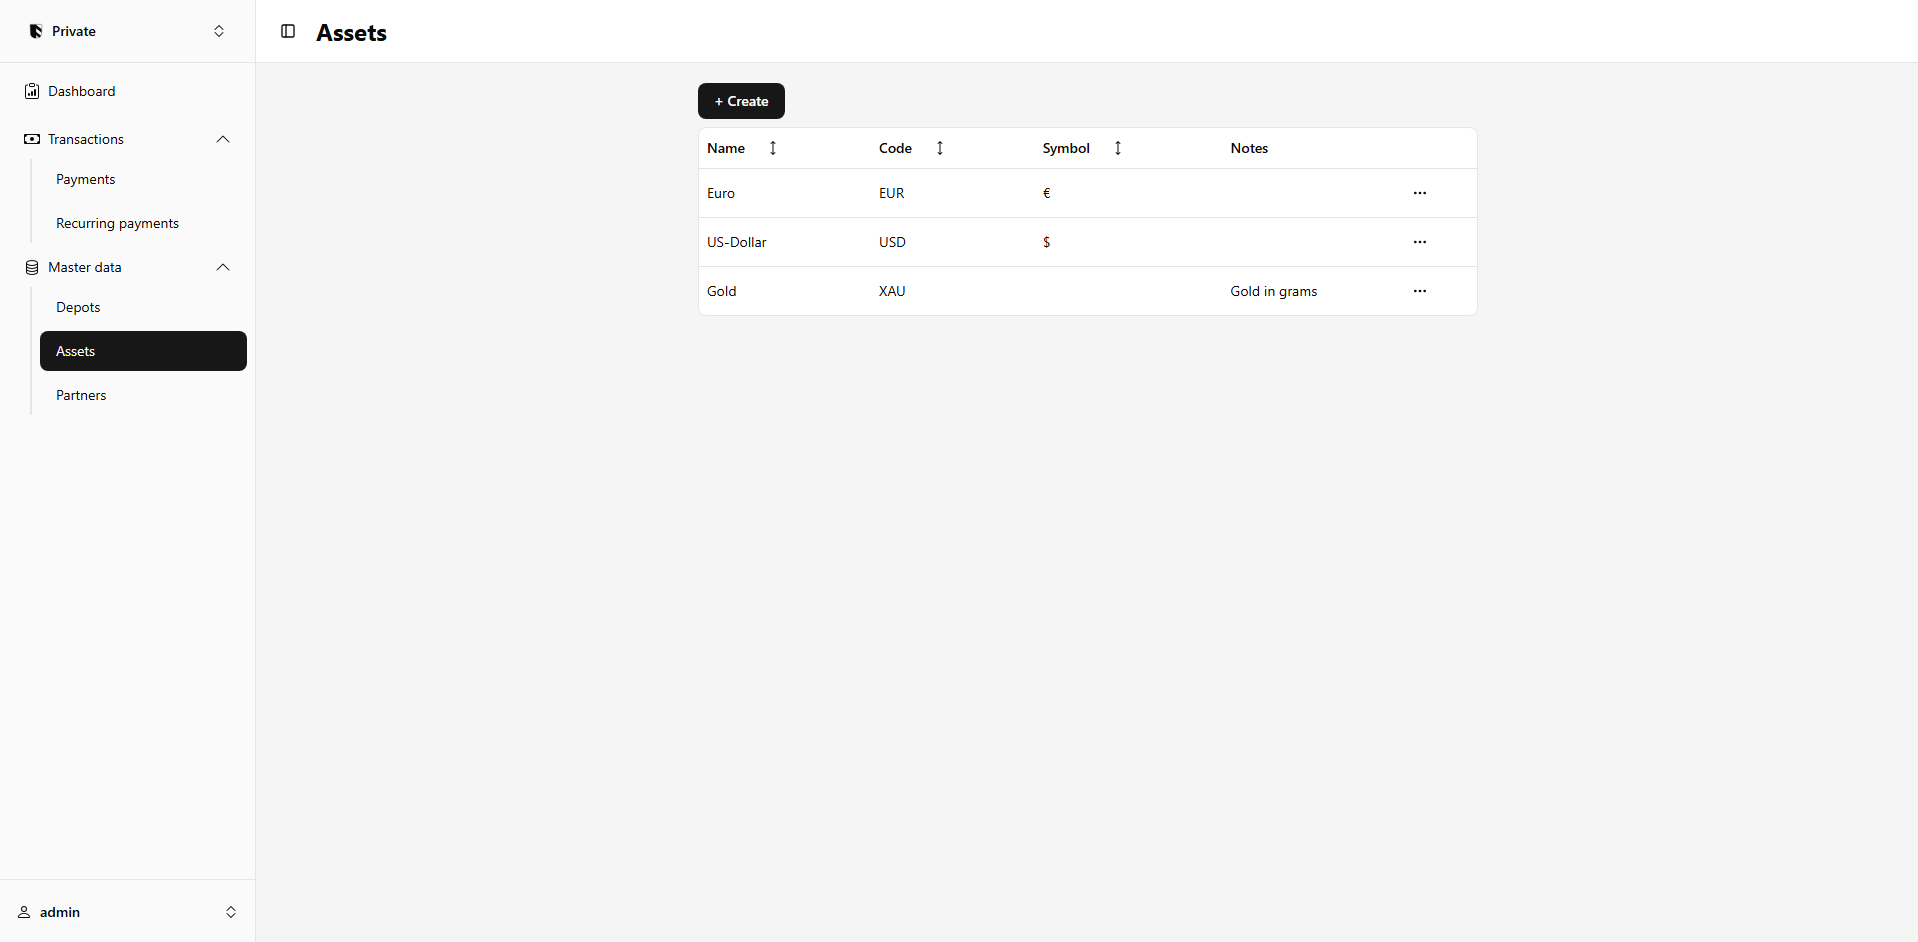
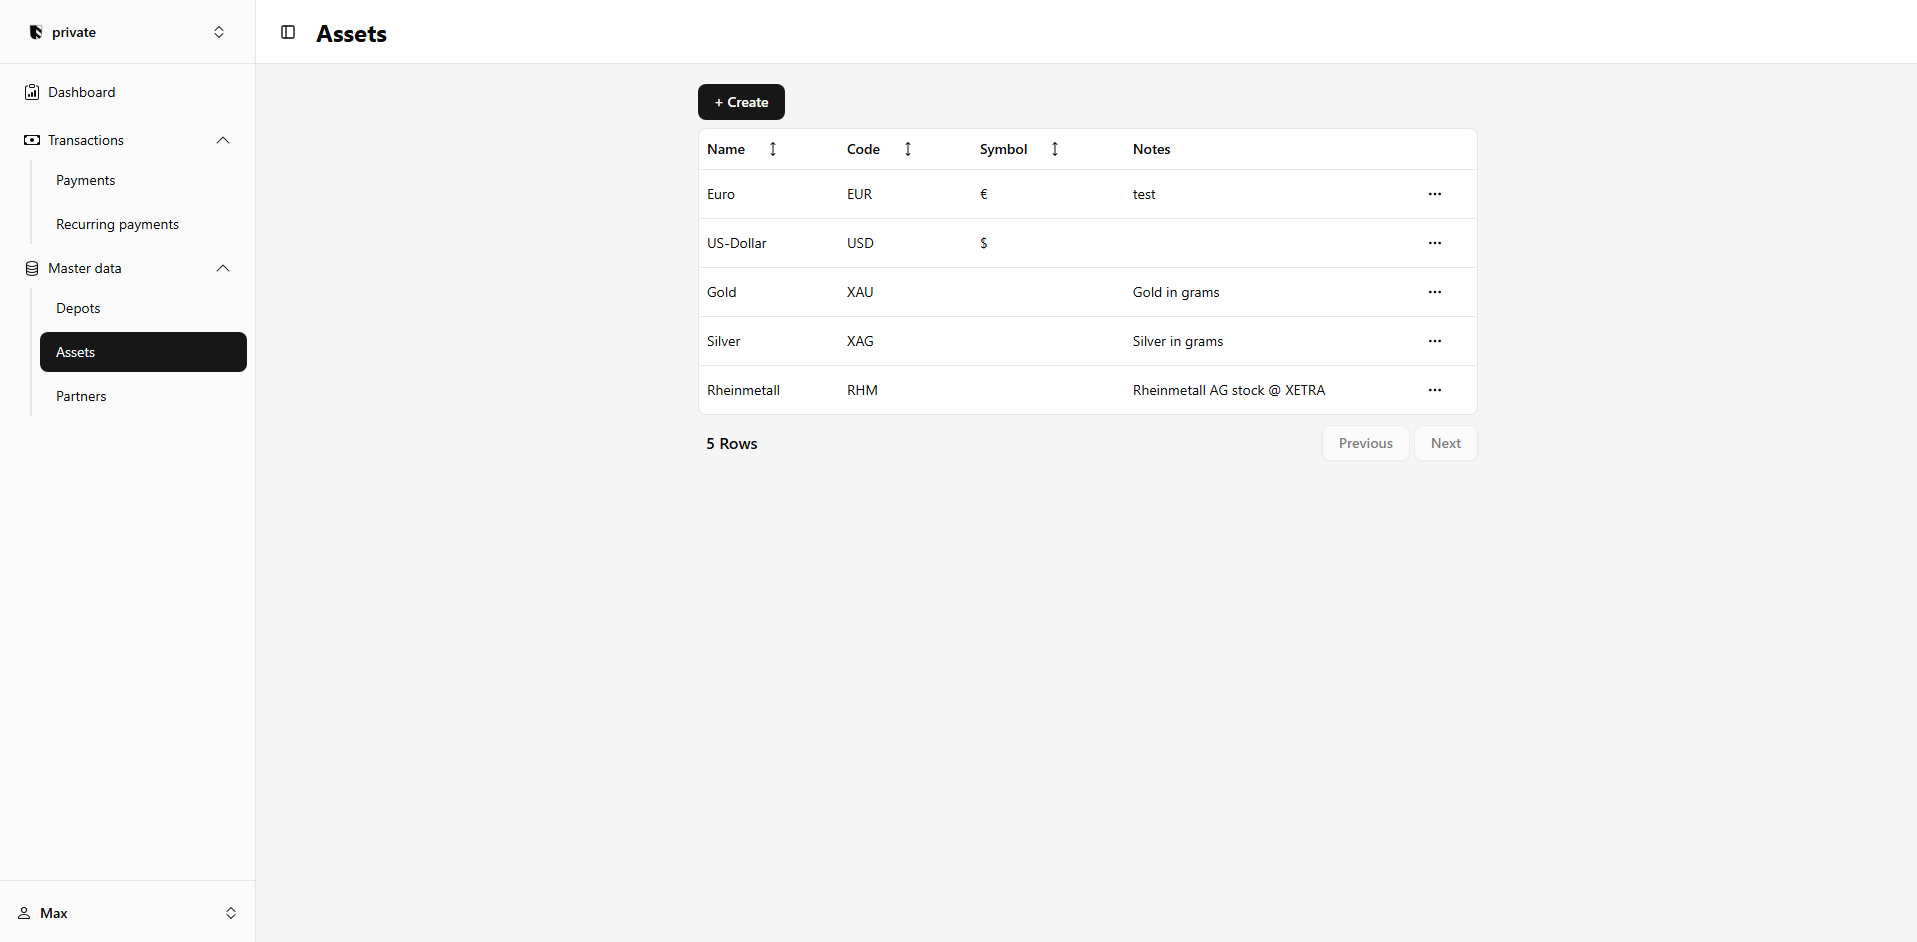
Refactor EntityView #4

diff --git a/src/main/webui/src/components/table/data-table.tsx b/src/main/webui/src/components/table/data-table.tsx
@@ -9,20 +9,27 @@ import {
 import {type Table as TTable} from "@tanstack/table-core"
 import {Table, TableBody, TableCell, TableHead, TableHeader, TableRow} from "./../ui/table.tsx";
 import {type RefObject, useEffect, useState} from "react";
+import type {PagedResponse} from "../../lib/types.ts";
+import {Button} from "../ui/button.tsx";
+import i18next from "i18next";
 
 interface DataTableProps<TData, TValue> {
     columns: ColumnDef<TData, TValue>[]
-    data: TData[],
+    page: PagedResponse<TData>,
+    changePage: (page: number) => void,
     ref?: RefObject<TTable<TData> | null>
 }
 
 export function DataTable<TData, TValue>({
                                              columns,
-                                             data,
+                                             page,
+                                             changePage,
                                              ref
                                          }: DataTableProps<TData, TValue>) {
     const [sorting, setSorting] = useState<SortingState>([])
     const [rowSelection, setRowSelection] = useState({})
+
+    const data = page.data
 
     const table = useReactTable({
         data,
@@ -44,50 +51,70 @@ export function DataTable<TData, TValue>({
     }, [])
 
     return (
-        <div className="overflow-hidden rounded-md border bg-white">
-            <Table>
-                <TableHeader>
-                    {table.getHeaderGroups().map((headerGroup) => (
-                        <TableRow key={headerGroup.id}>
-                            {headerGroup.headers.map((header) => {
-                                return (
-                                    <TableHead key={header.id}>
-                                        {header.isPlaceholder
-                                            ? null
-                                            : flexRender(
-                                                header.column.columnDef.header,
-                                                header.getContext()
-                                            )}
-                                    </TableHead>
-                                )
-                            })}
-                        </TableRow>
-                    ))}
-                </TableHeader>
-                <TableBody>
-                    {table.getRowModel().rows?.length ? (
-                        table.getRowModel().rows.map((row) => (
-                            <TableRow
-                                key={row.id}
-                                onClick={() => row.toggleSelected()}
-                                data-state={row.getIsSelected() && "selected"}
-                            >
-                                {row.getVisibleCells().map((cell) => (
-                                    <TableCell key={cell.id}>
-                                        {flexRender(cell.column.columnDef.cell, cell.getContext())}
-                                    </TableCell>
-                                ))}
+        <div className={"flex flex-col gap-2"}>
+            <div className="overflow-hidden rounded-md border bg-white">
+                <Table>
+                    <TableHeader>
+                        {table.getHeaderGroups().map((headerGroup) => (
+                            <TableRow key={headerGroup.id}>
+                                {headerGroup.headers.map((header) => {
+                                    return (
+                                        <TableHead key={header.id}>
+                                            {header.isPlaceholder
+                                                ? null
+                                                : flexRender(
+                                                    header.column.columnDef.header,
+                                                    header.getContext()
+                                                )}
+                                        </TableHead>
+                                    )
+                                })}
                             </TableRow>
-                        ))
-                    ) : (
-                        <TableRow>
-                            <TableCell colSpan={columns.length} className="h-24 text-center">
-                                No results.
-                            </TableCell>
-                        </TableRow>
-                    )}
-                </TableBody>
-            </Table>
+                        ))}
+                    </TableHeader>
+                    <TableBody>
+                        {table.getRowModel().rows?.length ? (
+                            table.getRowModel().rows.map((row) => (
+                                <TableRow
+                                    key={row.id}
+                                    onClick={() => row.toggleSelected()}
+                                    data-state={row.getIsSelected() && "selected"}
+                                >
+                                    {row.getVisibleCells().map((cell) => (
+                                        <TableCell key={cell.id}>
+                                            {flexRender(cell.column.columnDef.cell, cell.getContext())}
+                                        </TableCell>
+                                    ))}
+                                </TableRow>
+                            ))
+                        ) : (
+                            <TableRow>
+                                <TableCell colSpan={columns.length} className="h-24 text-center">
+                                    No results.
+                                </TableCell>
+                            </TableRow>
+                        )}
+                    </TableBody>
+                </Table>
+
+            </div>
+            <div className={"flex justify-between items-center"}>
+                <div className={"font-medium p-2 w-fit"}>
+                    {page.totalElements.toLocaleString()} {i18next.t("table.rows")}
+                </div>
+                <div className={"flex gap-1"}>
+                    <Button onClick={() => changePage(page.page - 1)}
+                            variant={"outline"}
+                            disabled={page.page <= 0}>
+                        {i18next.t("table.previous")}
+                    </Button>
+                    <Button onClick={() => changePage(page.page + 1)}
+                            variant={"outline"}
+                            disabled={page.page + 1 >= page.totalPages}>
+                        {i18next.t("table.next")}
+                    </Button>
+                </div>
+            </div>
         </div>
     )
 }

diff --git a/src/main/webui/src/views/data/EntityView.tsx b/src/main/webui/src/views/data/EntityView.tsx
@@ -65,10 +65,11 @@ export function EntityView<TEntity, TForm extends FieldValues>(props: EntityView
 
     const {workspace} = useWorkspace()
 
+    const [page, setPage] = useState(0)
     const [version, setVersion] = useState(0)
-    const [data, setData] = useState<PagedResponse<TEntity>>({page: 0, size: 0, pages: 0, totalElements: 0, data: []})
+    const [data, setData] = useState<PagedResponse<TEntity>>({page: 0, size: 0, totalPages: 0, totalElements: 0, data: []})
     useEffect(() => {
-        actions.load(workspace, 0, 25)
+        actions.load(workspace, page, 25)
             .then(response => {
                 if (!response.ok) {
                     showHttpError(response)
@@ -77,7 +78,7 @@ export function EntityView<TEntity, TForm extends FieldValues>(props: EntityView
                 response.json().then(setData)
             })
             .catch(showError)
-    }, [version, workspace])
+    }, [version, workspace, page])
 
     const {setViewConfig} = useViewConfig()
     useEffect(() => {
@@ -111,7 +112,7 @@ export function EntityView<TEntity, TForm extends FieldValues>(props: EntityView
                         dialogControls.current?.edit(undefined)
                     }}>+ {i18next.t("create")}</Button>
                 </div>
-                <DataTable columns={columns} data={data.data}/>
+                <DataTable columns={columns} page={data} changePage={setPage}/>
             </div>
         </div>
     )

diff --git a/src/main/webui/src/main.tsx b/src/main/webui/src/main.tsx
@@ -52,6 +52,9 @@ i18next.init({
                 "workspace.dialog.create.desc": "Create a new workspace",
                 "workspaces": "Workspaces",
                 "workspace.create": "Create Workspace",
+                "table.rows": "Rows total",
+                "table.previous": "Previous",
+                "table.next": "Next",
                 "error.delete.dependents": "Cannot delete entry because it is referenced by other entities"
             }
         }

diff --git a/src/main/webui/src/views/assets/AssetView.tsx b/src/main/webui/src/views/assets/AssetView.tsx
@@ -75,15 +75,15 @@ export function useAssetEditForm() {
     function reset(entity?: Asset) {
         form.reset(entity || {
             name: "",
+            provider: undefined,
             code: "",
-            symbol: "",
-            notes: ""
+            symbol: undefined,
+            notes: undefined
         })
     }
 
     return {form, toEntity, reset, fields}
 }
-
 
 export default function AssetView() {
     const columns: ColumnDef<Asset>[] = [

diff --git a/src/main/webui/src/lib/types.ts b/src/main/webui/src/lib/types.ts
@@ -89,7 +89,7 @@ export interface UserDto {
 export interface PagedResponse<T> {
     page: number;
     size: number;
-    pages: number;
+    totalPages: number;
     totalElements: number;
     data: T[]
 }
